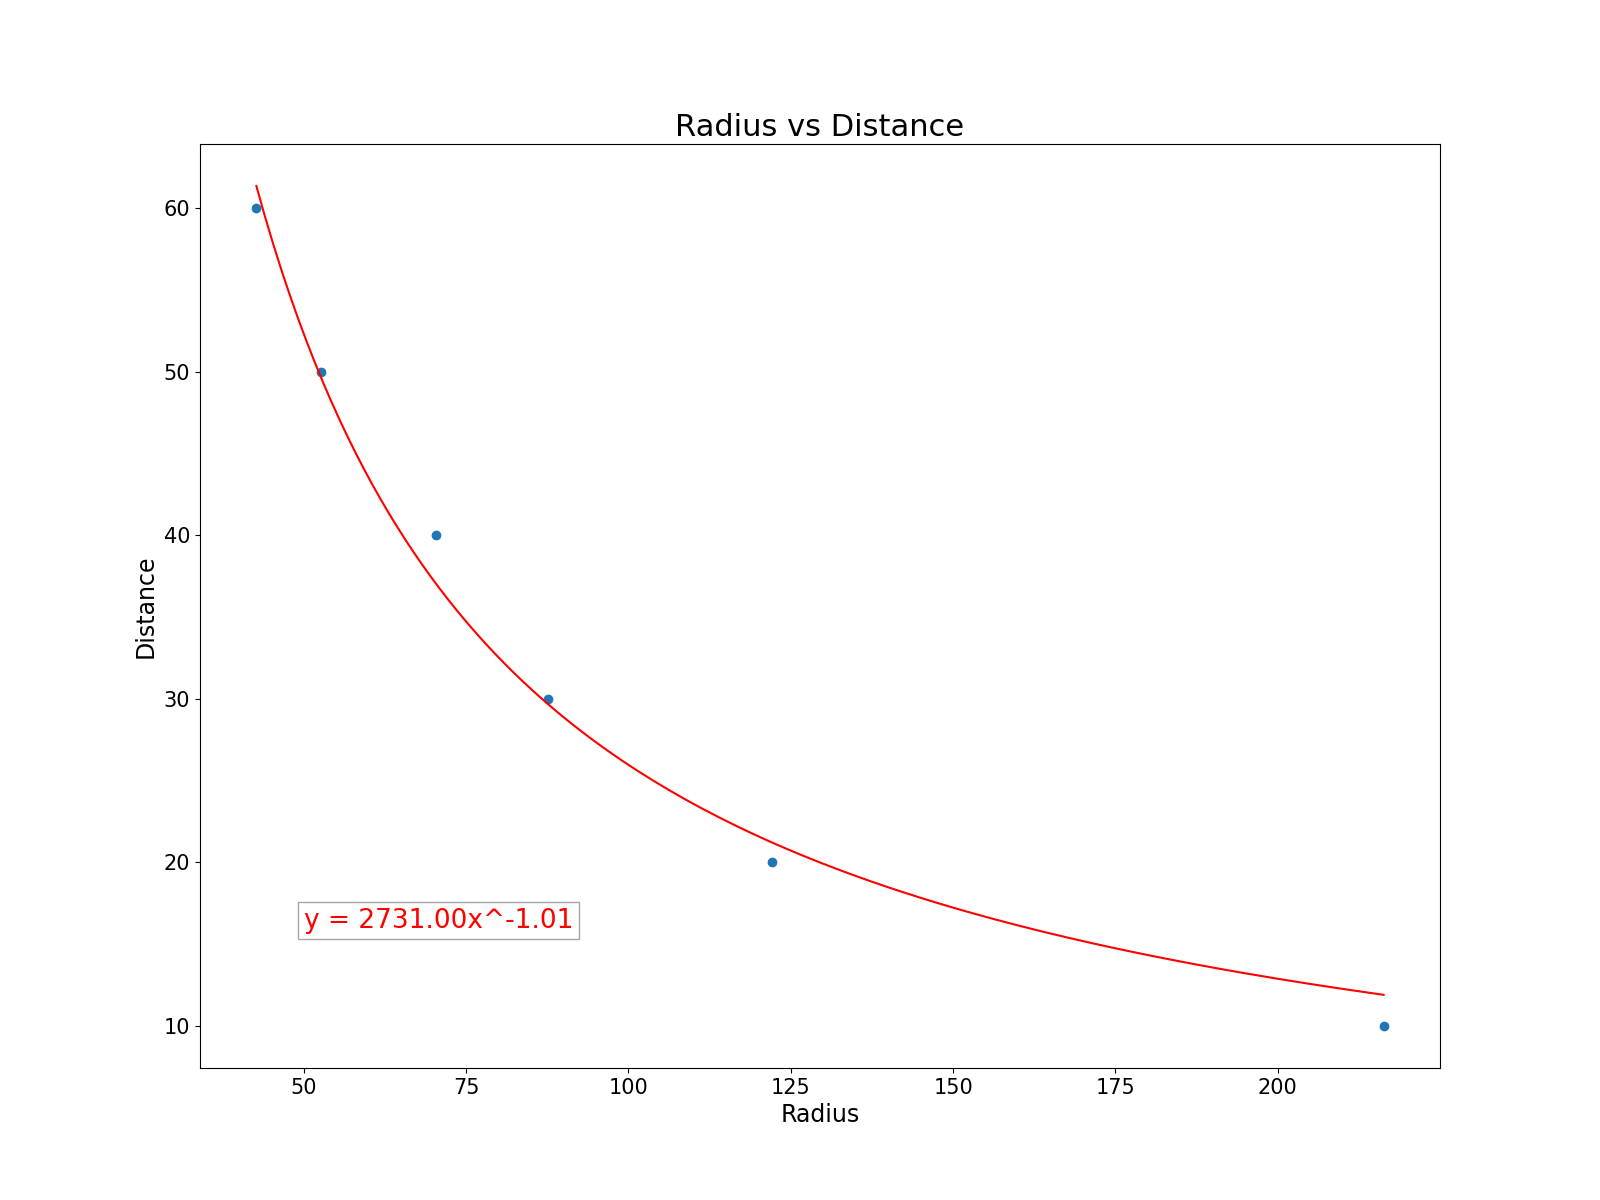
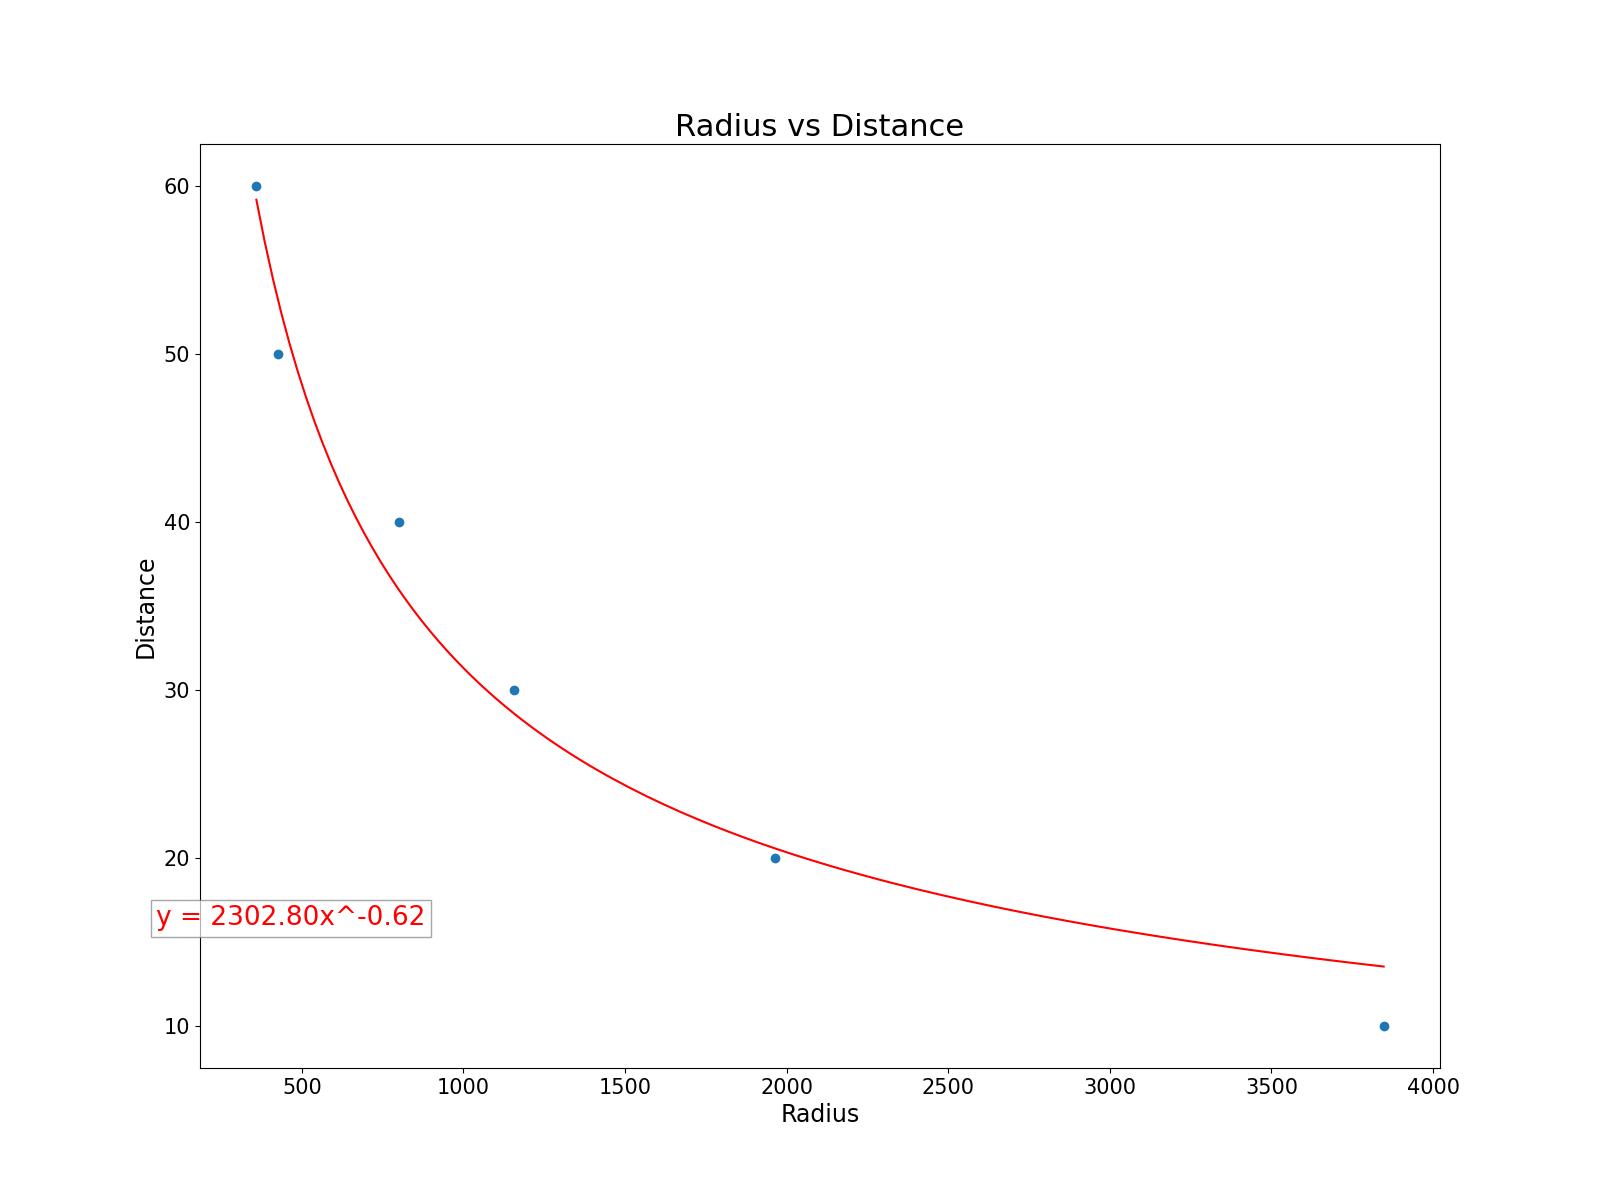
Object detection overhaul

diff --git a/CameraCalibration/static/index.js b/CameraCalibration/static/index.js
@@ -99,7 +99,25 @@ function update() {
             .catch(error => {return 0;});
             
         // Fetches ball x-position on camera.
-        fetch("/xOffset", {
+        //fetch("/xOffset", {
+            //method: "POST",
+            //headers: {
+                //"Content-type": "application/json; charset=UTF-8"
+            //}
+            //})
+            //.then(response => response.json())
+            //.then(data => {
+                //let x = data.xOffset;
+                //estimatedX = calcX(x);
+                //xOffsetLabel.innerHTML = `Estimated X: ${estimatedX}`;
+                
+                //angle = calcAngle(estimatedX);
+                //angleLabel.innerHTML = `Estimated Angle: ${(angle * 180) / Math.PI}`;
+            //})
+            //.catch(error => {return 0;});
+            
+        // Fetch ball angle from camera center
+        fetch("/angle", {
             method: "POST",
             headers: {
                 "Content-type": "application/json; charset=UTF-8"
@@ -107,11 +125,7 @@ function update() {
             })
             .then(response => response.json())
             .then(data => {
-                let x = data.xOffset;
-                estimatedX = calcX(x);
-                xOffsetLabel.innerHTML = `Estimated X: ${estimatedX}`;
-                
-                angle = calcAngle(estimatedX);
+                angle = data.angle;
                 angleLabel.innerHTML = `Estimated Angle: ${(angle * 180) / Math.PI}`;
             })
             .catch(error => {return 0;});

diff --git a/CameraCalibration/static/dist.js b/CameraCalibration/static/dist.js
@@ -65,7 +65,7 @@ function calibrateDistNext() {
             })
             .then(response => response.json())
             .then(data => {
-                distSteps.push({x: data.radius, y: originalStep});
+                distSteps.push({x: data.radius * data.radialDistance, y: originalStep});
             })
             .catch(error => {return 0;});
     }

diff --git a/CameraCalibration/camera-archive.py b/CameraCalibration/camera-archive.py
@@ -13,8 +13,7 @@ import imutils
 from time import perf_counter, sleep
 from typing import Callable
 from classes import *
-from math import atan2, degrees, sqrt
-import numpy
+from math import atan2, degrees
 
 # try:
 from picamera2 import Picamera2
@@ -54,7 +53,6 @@ with open(save_path, "r") as f:
     dist = data["dist"]
     angle = data["angle"]
     color = data["color"]
-    camera_center = data["center"]
     f.close()
     
 def get_dist(radius):
@@ -135,7 +133,6 @@ class Camera:
                 
         self.pos = None
         self.radius = None
-        self.radial_distance = None
         # self.velocity = None
         # self.points = deque(maxlen=BUFFER_SIZE)
         
@@ -144,7 +141,6 @@ class Camera:
 
         self.image = None
         self.color_mask = None
-        self.camera_center = camera_center
 
         self.update_events = []
         
@@ -167,59 +163,59 @@ class Camera:
         return mask
 
     def get_distance(self):
-        # if self.radius is None:
-            # return None
-        # if self.distance is None:
-            # return get_dist(self.radius)
+        if self.radius is None:
+            return None
+        if self.distance is None:
+            return get_dist(self.radius)
         return self.distance
 
     def get_angle(self):
-        # if self.radius is None:
-            # return None
-        # if self.angle is None:
-            # return get_angle(self.pos.x, self.get_distance())
-        return self.angle
+        if self.radius is None:
+            return None
+        if self.angle is None:
+            return get_angle(self.pos.x, self.get_distance())
+        return self.distance
     
     def compute(self, frame):
         mask = self.get_mask(frame)
-        contours = cv2.findContours(mask, cv2.RETR_EXTERNAL, cv2.CHAIN_APPROX_SIMPLE)
+        contours = cv2.findContours(mask, cv2.RETR_EXTERNAL,
+            cv2.CHAIN_APPROX_SIMPLE)
         contours = imutils.grab_contours(contours)
         center = None
         
         if len(contours) > 0:
-            # Merge contours into a convex contour to be fitted with ellipse
-            points = []
-            for i in range(len(contours)):
-                for pt in contours[i]:
-                    points.append(pt)
-                cv2.drawContours(frame, contours, i, (0, 255, 0))
-            # c = max(contours, key=cv2.contourArea)
-            c = cv2.convexHull(numpy.array(points, dtype=numpy.int32))
+            c = max(contours, key=cv2.contourArea)
+            ((x, y), radius) = cv2.minEnclosingCircle(c)
+            pos = Vector(x, y)
+            M = cv2.moments(c)
+            center = (int(M["m10"] / M["m00"]), int(M["m01"] / M["m00"]))
             
-            if len(c) > 4:
-                ellipse = cv2.fitEllipse(c)
-                center, size, angle = ellipse
-                
-                # Not actually radius i just cbf changing the variable name
-                self.radius = size[0] * size[1] # cv2.contourArea(c)
-                self.distance = get_dist(self.radius)
-                scale = size[0] * .006
-                self.pos = Vector(center)
-                delta_pos = self.pos.x - self.camera_center[0], self.pos.y - self.camera_center[1]
-                self.angle = -atan2(delta_pos[1], delta_pos[0])
-                # self.angle = degrees(self.angle) # RADIANS TO DEGREES
-                self.radial_distance = sqrt(delta_pos[0]**2 + delta_pos[1]**2)
-                
-                if self.draw_detections:
-                    cv2.ellipse(frame, ellipse, (255, 255, 255), 1, cv2.LINE_AA)
-                    cv2.drawMarker(frame, [int(center[0]), int(center[1])], (0, 255, 0))
+            if radius > MIN_RADIUS:
+                if self.pos is None:
+                    self.pos = pos
+                if self.radius is None:
+                    self.radius = radius
+
+                if dist_squared(self.pos, pos) < MAX_BALL_JUMP ** 2:
+                    # old_pos = self.pos.copy()
+                    self.pos.x = lerp(self.pos.x, x, LERP_STEP)
+                    self.pos.y = lerp(self.pos.y, y, LERP_STEP)
+                    # self.velocity = Vector(self.pos.x - old_pos.x, self.pos.y - old_pos.y)
+
+                    self.radius = lerp(self.radius, radius, LERP_STEP)
+                    self.distance = get_dist(self.radius)
+                    self.angle = degrees(get_angle(self.pos.x, self.distance))
                     
-                    cv2.drawMarker(frame, self.camera_center, (0, 255, 0))
+                if self.draw_detections:
+                    # Draw True Circle Pos and Centroid
+                    # cv2.circle(frame, (int(x), int(y)), int(radius), (0, 255, 255), 2)
+                    # cv2.circle(frame, center, 2, BALL_TRACK_COLOUR, -1)
+                    scale = self.radius * .006
                     
                     font = cv2.FONT_HERSHEY_SIMPLEX
                     text_pos = [int(self.pos.x - 140 * scale), int(self.pos.y - 25 * scale)]
                     thickness = 1
-                    cv2.putText(frame, f"dist: {self.distance:.2f}cm", text_pos, font, scale, (230, 230, 230), thickness, cv2.LINE_AA)
+                    cv2.putText(frame, f"dist: {self.distance:.2f}cm", text_pos, font, scale, (0, 0, 0), thickness, cv2.LINE_AA)
                     cv2.putText(frame, f"angle: {self.angle:.2f} deg", (text_pos[0], int(text_pos[1] + 50 * scale)), font, scale, (0, 0, 0), thickness, cv2.LINE_AA)
 
         else:
@@ -260,8 +256,7 @@ class Camera:
                 # cv2.line(frame, self.points[i - 1], self.points[i], BALL_TRACK_COLOUR, thickness)
             
             if self.pos and self.radius:
-                ...
-                # cv2.circle(frame, self.pos.int(), int(self.radius), BALL_TRACK_COLOUR, 1, cv2.LINE_AA)
+                cv2.circle(frame, self.pos.int(), int(self.radius), BALL_TRACK_COLOUR, 1, cv2.LINE_AA)
 
                 # Draw Velocity Vector
                 # point2 = Vector(self.pos.x + self.velocity.x * 50, self.pos.y + self.velocity.y * 50)

diff --git a/CameraCalibration/main.py b/CameraCalibration/main.py
@@ -16,7 +16,11 @@ def update():
         server.x_offset = camera.pos.x
     else:
         server.x_offset = None
+        
     server.radius = camera.radius
+    server.radial_distance = camera.radial_distance
+    server.angle = camera.angle
+    
     if server.lower and server.upper:
         camera.set_color_bounds(server.lower, server.upper)
         server.lower = server.upper = None
@@ -26,14 +30,14 @@ def update():
         server.preview = camera.image.copy()
 
 if __name__ == "__main__":
-    camera = Camera("Soccer Robot", preview=False, draw_detections=True)
+    camera = Camera("Soccer Robot", preview=False, draw_detections=False)
     camera.set_update(update)
     server = Server(__name__)
     
     robot = Robot(camera)
 
     threads = [
-        Thread(target=server.start),
+        # Thread(target=server.start),
         Thread(target=robot.start),
     ]
 

diff --git a/CameraCalibration/robot.py b/CameraCalibration/robot.py
@@ -22,6 +22,8 @@ class Robot:
         
         self.ser = serial.Serial(RECEIVER, BAUD_RATE, timeout=1)
         self.ser.reset_input_buffer()
+        
+        self.tick = 0
     
     def update(self):
         """System update loop. Updates the ball's distance and angle variables."""
@@ -31,6 +33,10 @@ class Robot:
         if self.distance and self.angle:
             self.send(self.distance, self.angle)
         print(f"Distance: {str(self.distance): <16} Angle: {str(self.angle): <16}")
+        
+        self.tick += 1
+        if self.tick % 5 == 0:
+            self.ser.reset_input_buffer()
         
     def send(self, dist, angle):
         """
@@ -45,6 +51,7 @@ class Robot:
         Start reading the camera and producing ball data.
         """
         self.camera.start()
+        print("e")
         
 
 if __name__ == "__main__":

diff --git a/CameraCalibration/server.py b/CameraCalibration/server.py
@@ -16,6 +16,7 @@ import base64
 import cv2
 import json
 import colorsys
+from time import perf_counter
 
 DEBUG = False
 
@@ -37,6 +38,8 @@ class Server(Flask):
         self.show_preview = False
         
         self.radius = None
+        self.radial_distance = None
+        self.angle = None
         self.x_offset = None
         self.fps = None
         
@@ -73,7 +76,11 @@ class Server(Flask):
  
         @self.route("/radius", methods=["POST"])
         def radius():
-            return jsonify({"radius": self.radius})
+            return jsonify({"radius": self.radius, "radialDistance": self.radial_distance})
+ 
+        @self.route("/angle", methods=["POST"])
+        def angle():
+            return jsonify({"angle": self.angle})
  
         @self.route("/xOffset", methods=["POST"])
         def x_offset():

diff --git a/CameraCalibration/calibrate.py b/CameraCalibration/calibrate.py
@@ -15,7 +15,11 @@ def update():
         server.x_offset = camera.pos.x
     else:
         server.x_offset = None
+        
     server.radius = camera.radius
+    server.radial_distance = camera.radial_distance
+    server.angle = camera.angle
+    
     if server.lower and server.upper:
         camera.set_color_bounds(server.lower, server.upper)
         server.lower = server.upper = None
@@ -25,7 +29,7 @@ def update():
         server.preview = camera.image.copy()
 
 if __name__ == "__main__":
-    camera = Camera("Ball Detector", preview=False, draw_detections=True)
+    camera = Camera("Ball Detector", preview=False, draw_detections=False)
     camera.set_update(update)
     server = Server(__name__)
 
